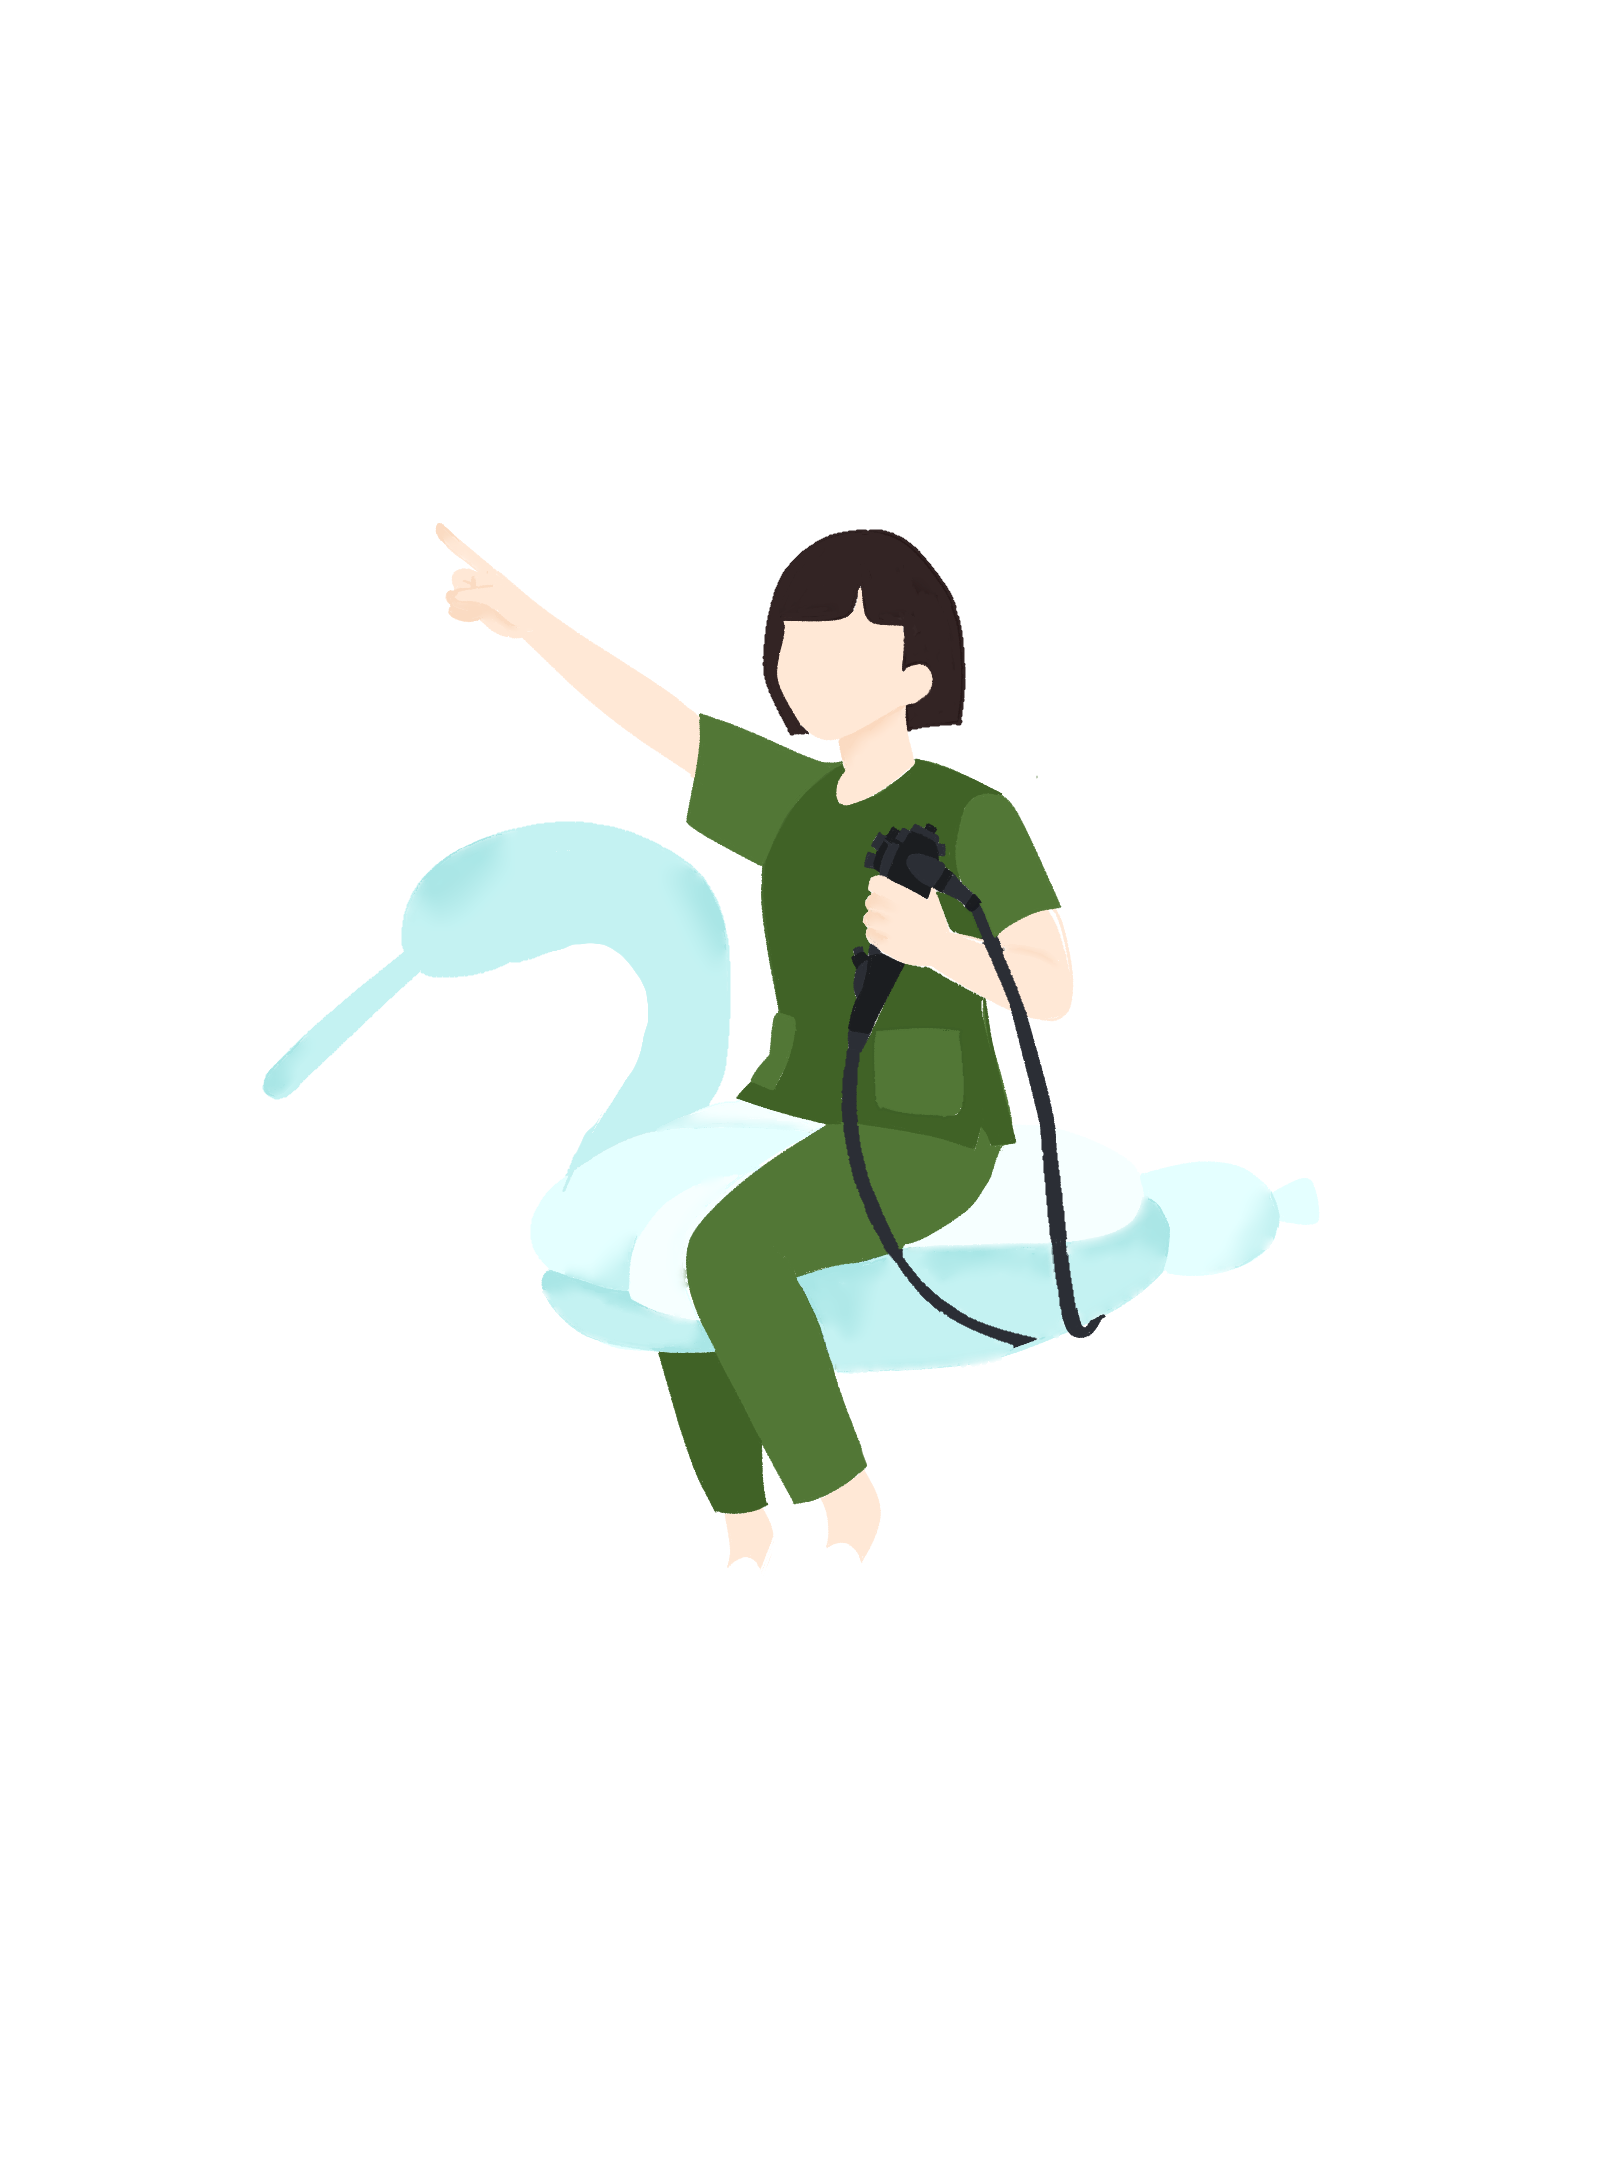
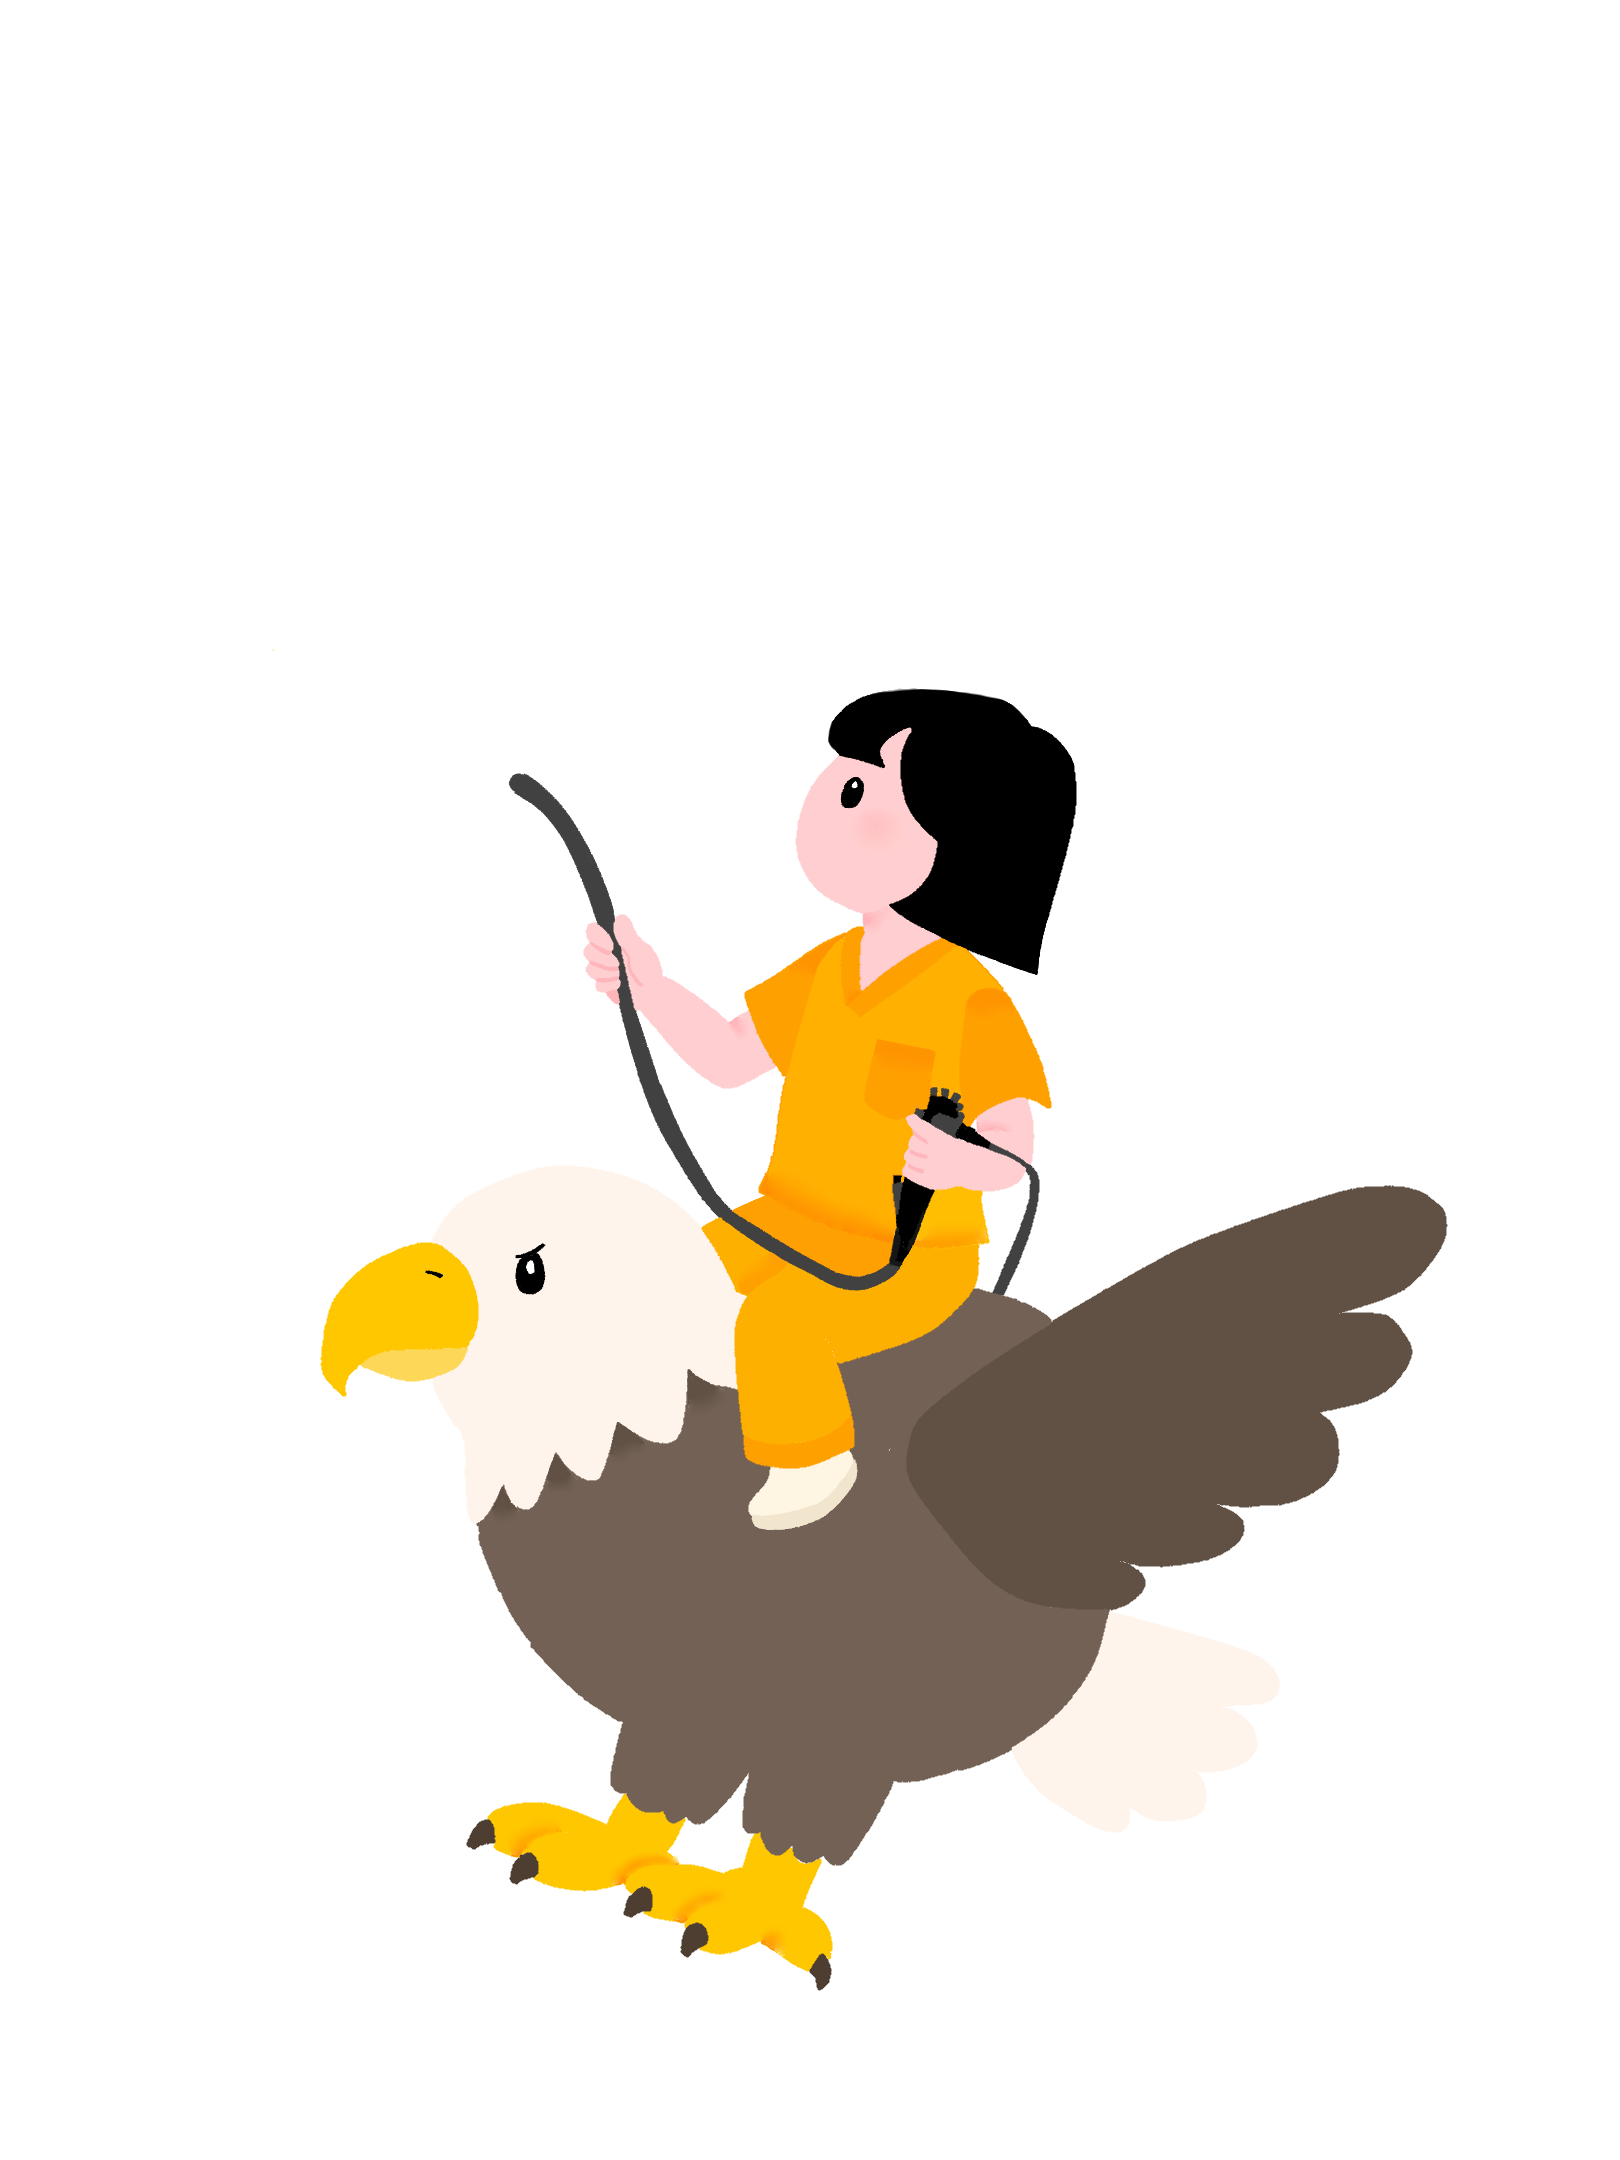
Heroイラストをwithhawk.pngに差し替え、サイズ・位置を調整
鷲に乗った医師のイラストに変更。本文と重ならないサイズに調整し、
位置もやや左上に寄せた。

Changed region(s): [[0.1543, 0.2481, 0.8951, 0.9306]]

diff --git a/components/sections/home/Hero.tsx b/components/sections/home/Hero.tsx
@@ -40,7 +40,7 @@ export function Hero() {
         </div>
 
         <FloatIn
-          className="relative mx-auto mt-10 w-full max-w-[16rem] sm:max-w-xs lg:pointer-events-none lg:absolute lg:right-[-4%] lg:top-1/2 lg:mt-0 lg:w-[52rem] lg:max-w-[60vw] lg:-translate-y-1/2"
+          className="relative mx-auto mt-10 w-full max-w-[16rem] sm:max-w-[20rem] lg:pointer-events-none lg:absolute lg:right-[4%] lg:top-[42%] lg:mt-0 lg:w-[46rem] lg:max-w-[42vw] lg:-translate-y-1/2"
           delay={0.2}
         >
           <Image
